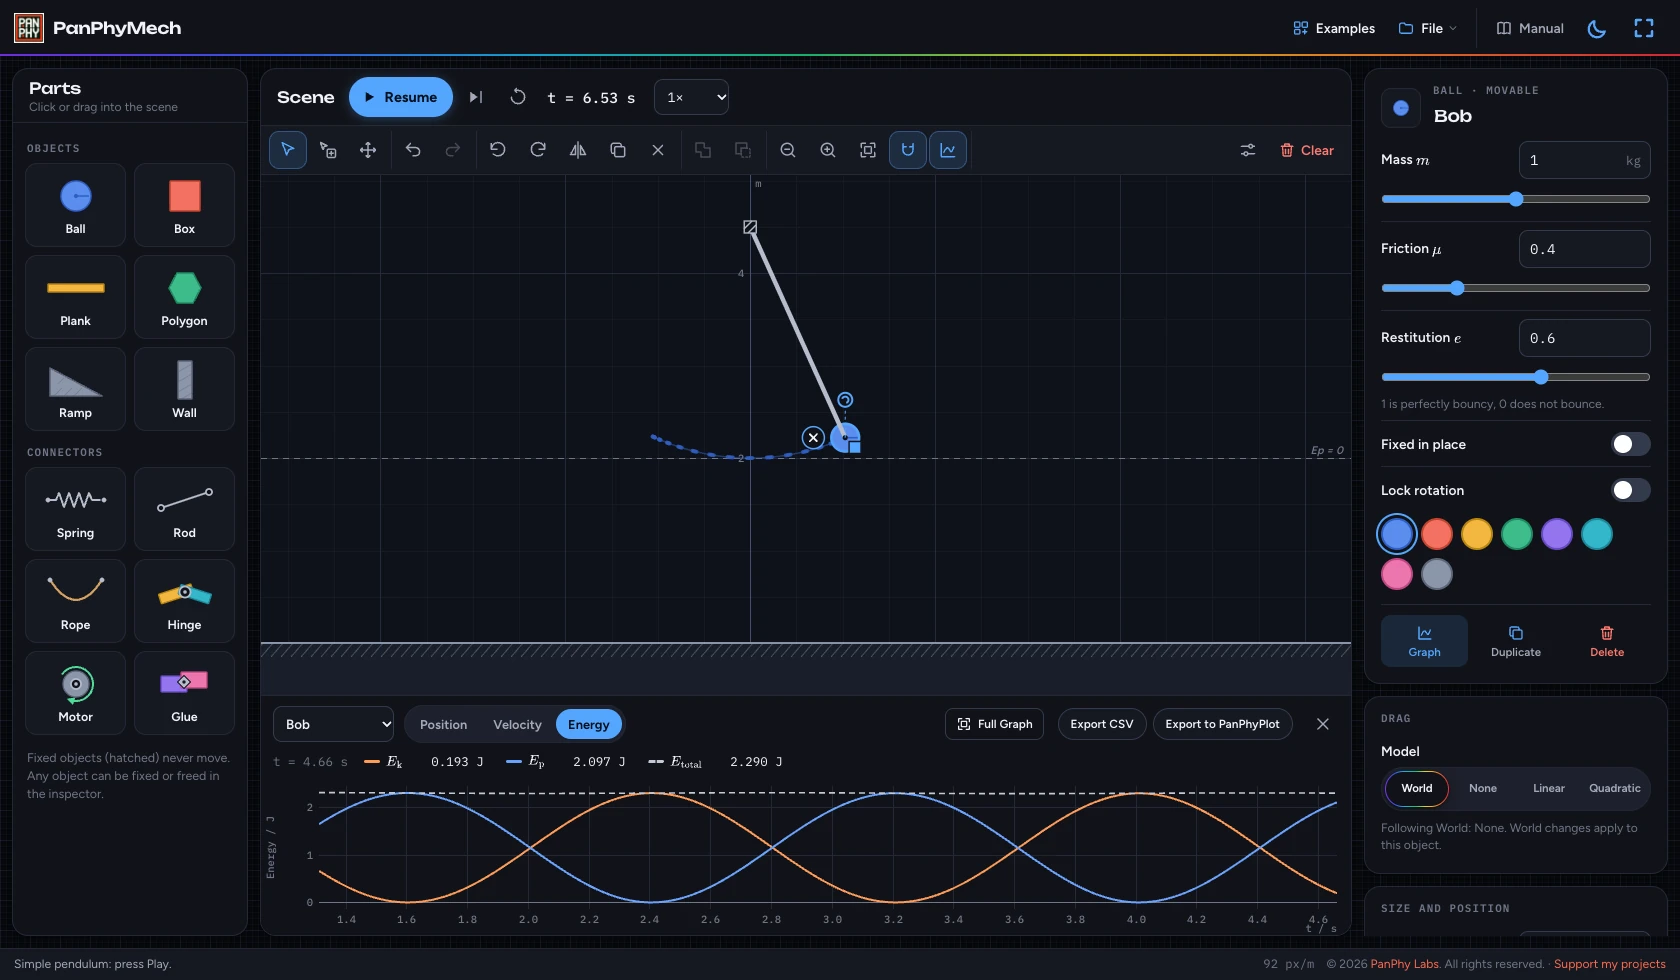
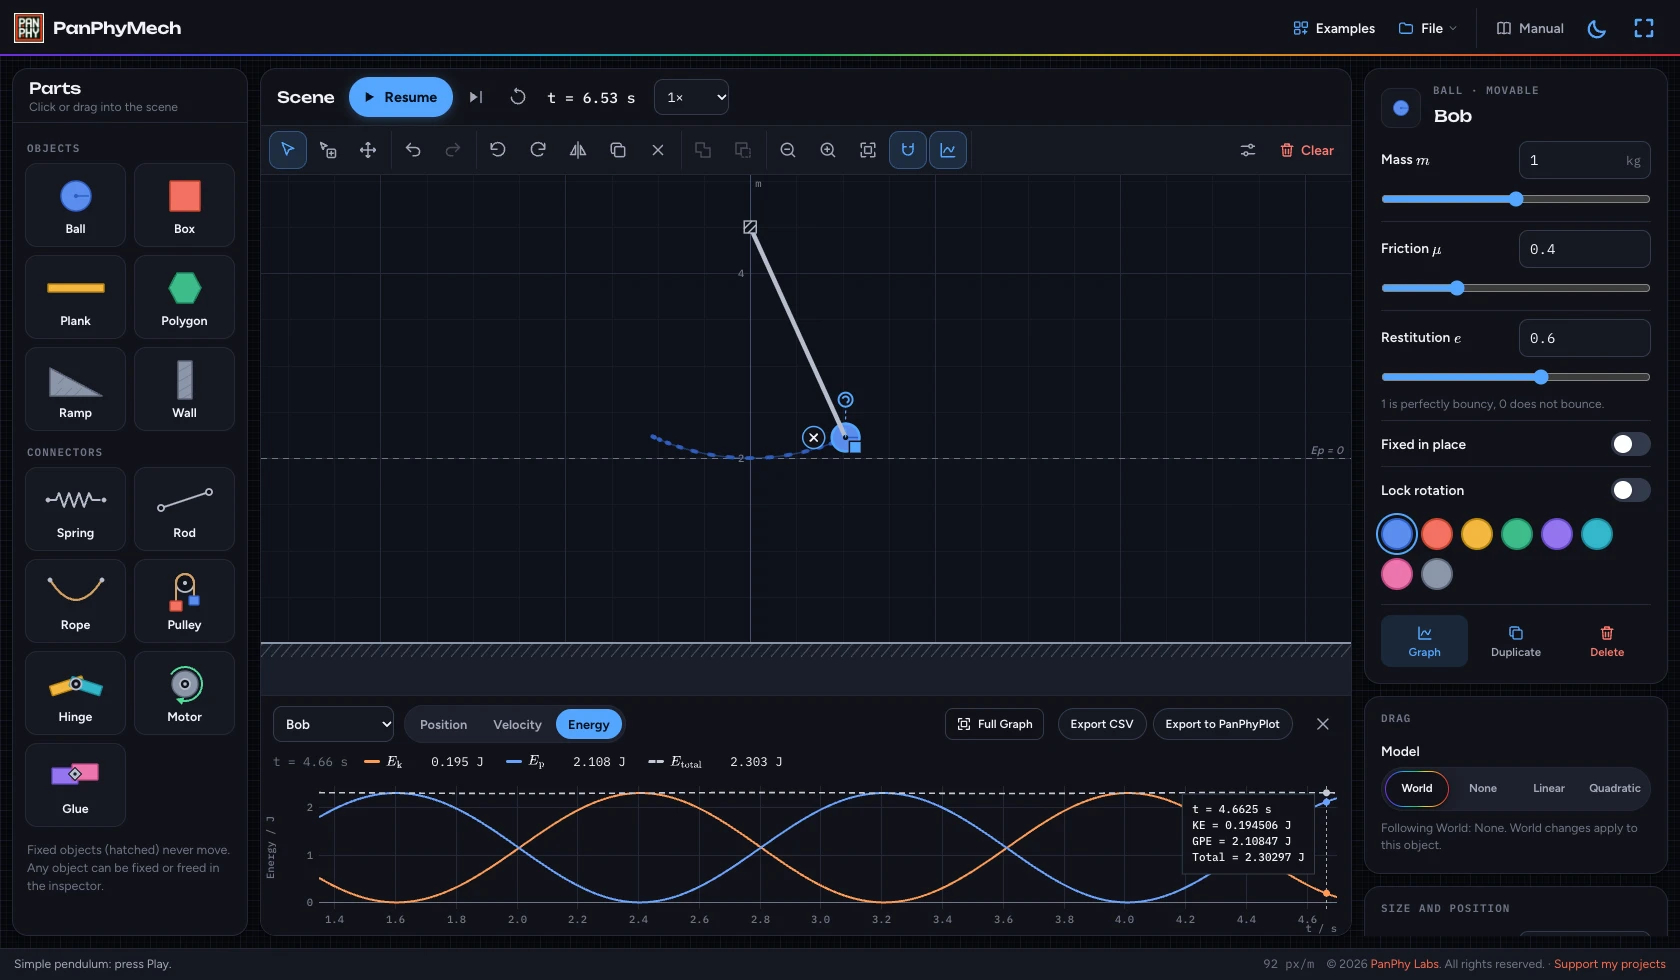
PanPhyMech manual: retake all screenshots with the Pulley part
All ten light/dark pairs predated the Pulley connector, so the Parts
panel in every shot was out of date. Add capture.mjs, which drives the
real app in headless Chrome to retake them reproducibly, and document
it in the manual README.

diff --git a/sw.js b/sw.js
@@ -1,4 +1,4 @@
-const BUILD_ID = '2026-11-01T18:10:52Z';
+const BUILD_ID = '2026-11-01T18:27:42Z';
 const CACHE_PREFIX = 'panphy-labs';
 const PRECACHE_NAME = `${CACHE_PREFIX}-precache-${BUILD_ID}`;
 const RUNTIME_CACHE = `${CACHE_PREFIX}-runtime-${BUILD_ID}`;

diff --git a/sandboxes/panphymech/manual/README.md b/sandboxes/panphymech/manual/README.md
@@ -2,6 +2,13 @@
 
 Five light/dark WebP pairs illustrate the pendulum walkthrough in `../manual.html`, and five more (`build-1` to `build-5`) the Tip: build complex objects section, which builds the Motor car body with Merge and Subtract. The local CSS and script follow the PanPhyCircuits manual: Spectrum surfaces, Contents, expandable reference topics and theme-aware screenshot zoom with focus restoration.
 
-Capture the real app in an isolated browser session at 1680 × 980, using Examples → Simple pendulum. Capture the initial workspace, a paused run of several swings, the selected bob’s Inspector, a selected graph time interval and the File menu. Keep each light/dark pair at the same simulation state and dimensions. Capture PNGs, then save them as WebP at quality 90 with stable filenames; record actual dimensions in the HTML. For the build pairs, start from Examples → Motor car and frame the car with the view box x −5.6 to −2.4 m, y 0 to 1.5 m (the last pair uses the example's own view, paused at about 3.3 s). Do not capture personal scenes or transient notifications.
+Retake all of them whenever the app’s interface changes (a new part, panel or control) with `capture.mjs`, which drives the real app in headless Chrome at 1680 × 980 and writes the WebP files here (quality 90). It needs Chrome and `cwebp`; serve the repository root first, then run it from there:
+
+```
+python3 -m http.server 8000
+node sandboxes/panphymech/manual/capture.mjs
+```
+
+Pass `pendulum`, `build` or `drive` to retake one group, `BASE=http://localhost:PORT` for another server and `CHROME=…` for another browser. The script uses a throwaway profile, steps time in 1/60 s steps (6.53 s for the pendulum, 3.30 s for the car) and captures each light/dark pair from the same state, without notifications or the pointer over the scene. The pendulum pairs show the initial workspace, a paused run, the selected bob’s Inspector, a selected graph interval and the File menu. The build pairs rebuild the Motor car body from the manual’s own coordinates with the real Merge and Subtract, framed at x −5.6 to −2.4 m, y 0 to 1.5 m; the last pair uses the example’s own view. Check every image against its caption and alt text, and update the HTML if the dimensions change.
 
 Verify step links, Contents, direct links to closed topics, keyboard closing and focus return, Actual size zoom and both themes at desktop and phone widths. The manual and its screenshots are cached with PanPhyMech. Keep `sw.js` and the app’s `OFFLINE_CARD_REQUIREMENTS` in `index.html` in sync when adding or renaming files, then bump `BUILD_ID`.
